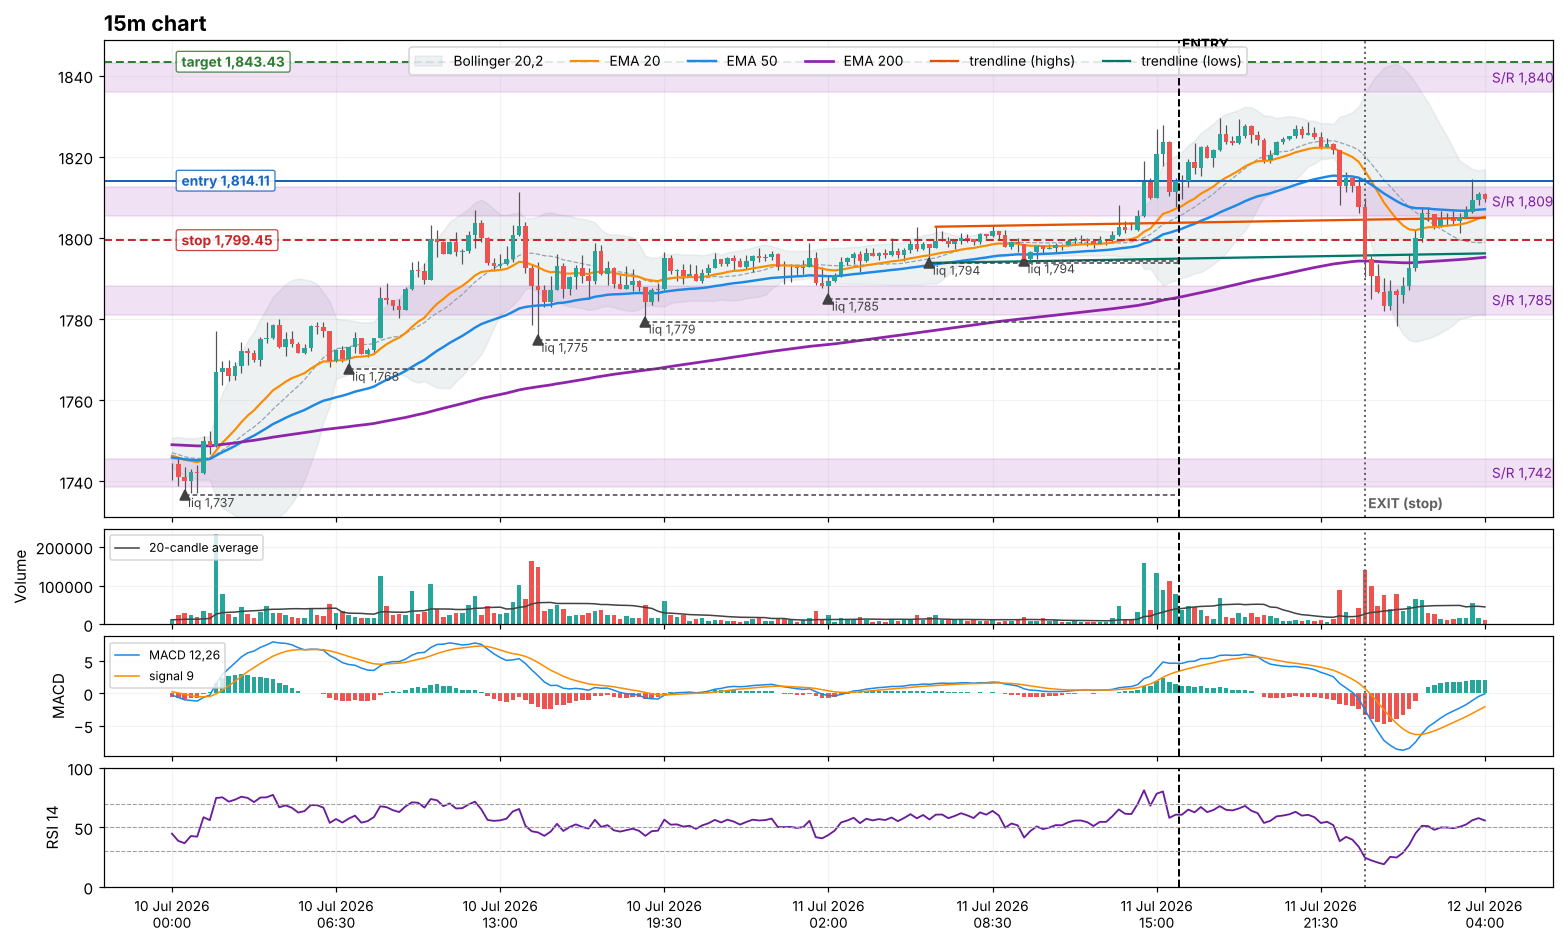
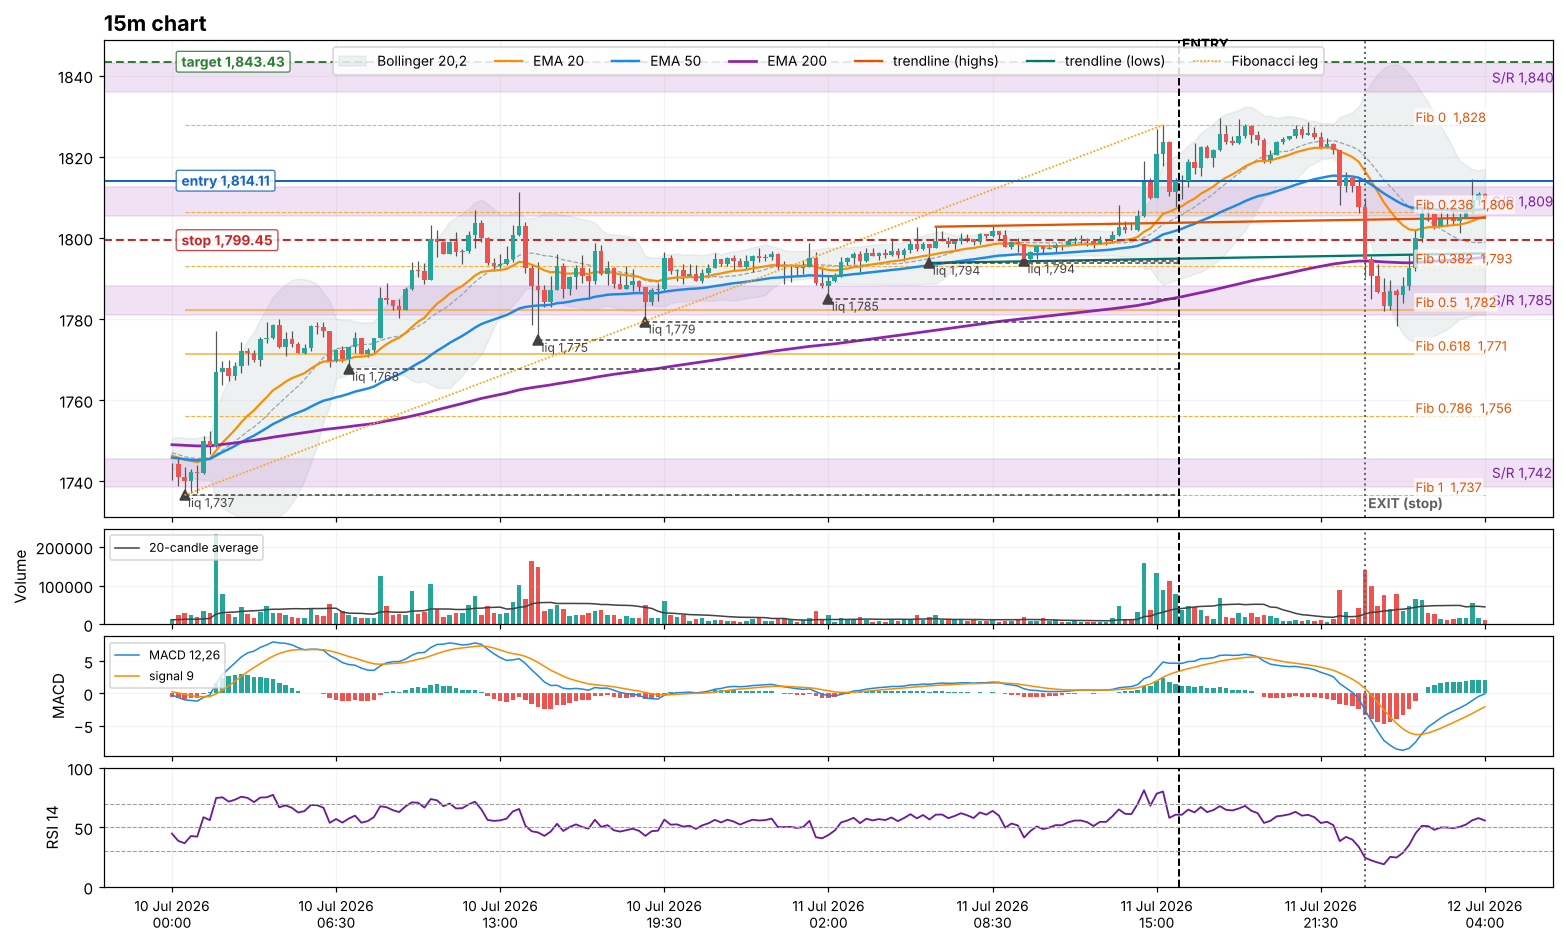
Journal h039: Fibonacci retracements/extensions on all charts, liquidity map and price-path review
Claude-Session: https://claude.ai/code/session_01Vt3ECMLxUk6mTvrtTCyxQY

diff --git a/reports/review/index.html b/reports/review/index.html
@@ -128,6 +128,7 @@ details.tr > summary:focus-visible { outline: 2px solid var(--accent); outline-o
   <p class="key">On every chart: black dashed line = entry, dotted grey = stop-out. Blue = entry price, red dashed = stop, green dashed = target.
     Purple bands = support / resistance zones known at entry (price on the right). Dashed grey lines with triangles = untaken liquidity
     (swing highs / lows not yet traded through, with their price). Orange / teal = trendlines through the last two swing highs / lows.
+    Yellow lines = Fibonacci retracements of the last leg (0.5 and 0.618 solid), orange dash-dot = Fibonacci extensions 1.272 / 1.618.
     Averages: EMA 20 orange, EMA 50 blue, EMA 200 purple; grey band = Bollinger 20,2. Below: volume with its 20-candle average, MACD, RSI 14.</p>
 
   <section class="card">
@@ -139,20 +140,55 @@ details.tr > summary:focus-visible { outline: 2px solid var(--accent); outline-o
     </ul>
   </section>
 
-  <section class="card mine">
-    <h2>What I think went wrong</h2>
+  <section class="card">
+    <span class="step">Liquidity at entry (untaken swing highs and lows, known before 16:00 UTC on 11 July)</span>
+    <div class="grid2">
+      <dl class="kv">
+        <dt>Above (buy-side, fuel for our long)</dt><dd></dd>
+        <dt>1h / 4h high</dt><dd>1,833</dd>
+        <dt>Daily high</dt><dd>1,849</dd>
+        <dt>Daily highs</dt><dd>2,423 · 2,464</dd>
+      </dl>
+      <dl class="kv">
+        <dt>Below (sell-side, where stops sit)</dt><dd></dd>
+        <dt>15m equal lows</dt><dd>1,794 · 1,794</dd>
+        <dt>15m / 1h lows</dt><dd>1,785 · 1,779 · 1,775 · 1,768</dd>
+        <dt>1h lows</dt><dd>1,737 · 1,731 · 1,721 · 1,712</dd>
+        <dt>4h / daily lows</dt><dd>1,549 · 1,547 · 1,511 · 1,504</dd>
+      </dl>
+    </div>
+    <p>Fibonacci at entry (last leg up, swings known before entry): <b>15m</b> 1,737 → 1,828: 0.382 = 1,793, 0.5 = 1,782, 0.618 = 1,771.
+      <b>1h</b> 1,712 → 1,828: 0.382 = 1,784, 0.5 = 1,770, 0.618 = 1,757, 0.786 = 1,737; extensions 1.272 = 1,859, 1.618 = 1,899.</p>
+  </section>
+
+  <section class="card">
+    <span class="step">What price did next, liquidity side by side</span>
     <ol>
-      <li><b>The stop sat right on top of a liquidity pool.</b> On the 15m chart there were untaken lows at 1,794, 1,794 and 1,785,
-        with the 1,785 support just under them. At 23:20 price dropped straight into that pool (low 1,778), took our stop on the way, and turned.
-        The bot's "clean risk zone" check only looks between the entry and the stop, so it missed liquidity 5 to 15 points below the stop.</li>
-      <li><b>We chased the move.</b> At entry the 1h RSI was about 70, 1h volume was 5 times its average and price was at the upper
-        Bollinger band on 15m and 1h. We bought after the push, not on a retest of 1,809.</li>
-      <li><b>The daily chart was still in repair.</b> Price sat on the daily EMA 50 (about 1,800), far below the EMA 200 (about 2,236), inside
-        the 1,785–1,809 zone, with 1,840 resistance overhead.</li>
-      <li><b>The idea was right.</b> About 24 hours after stopping us out, on 13 July at 00:10 UTC, price reached our target. It later went to 1,900.</li>
+      <li><b>11 Jul 23:20 – 12 Jul 00:30:</b> down to 1,778. It took the equal lows 1,794 / 1,794 and the lows at 1,785 and 1,779 (our stop at 1,799 went with them)
+        and turned at the 15m Fib 0.5 (1,782), 1h Fib 0.382 (1,784) and the 1,785 support.</li>
+      <li><b>13 Jul 00:10:</b> up to 1,848. It took the 1,833 high (and passed our target 1,843), stopping one dollar under the daily high at 1,849.</li>
+      <li><b>13 Jul 18:15:</b> down to 1,748. It took the deeper lows 1,775 and 1,768 and went just below the 1h Fib 0.618 (1,757), above the 0.786 (1,737).</li>
+      <li><b>14 Jul 12:45 – 22:30:</b> it took the daily high 1,849 and ran to 1,897, almost exactly the 1h Fibonacci 1.618 extension (1,899). It reached 1,959 on 22 July.</li>
     </ol>
-    <p>My suggestion for trades like this: put the stop below the pool and the 1,785 support (around 1,775), or wait for a retest of 1,809
-      and enter there. Both keep the same idea with a stop the market is less likely to hunt.</p>
+  </section>
+
+  <section class="card mine">
+    <h2>What I think of this trade, with Fibonacci and liquidity</h2>
+    <ol>
+      <li><b>The direction was right; the stop was in the most obvious place.</b> Our stop (1,799) sat just above equal lows at 1,794 / 1,794:
+        the clearest sell-side liquidity on the chart, and only a 1h Fib 0.236 pullback away. A normal 0.382–0.5 pullback had to take it.</li>
+      <li><b>Price moves from one pool of liquidity to the next.</b> First the lows under our stop, then the 1,833 high, then the deeper lows
+        at 1,775 / 1,768, then the daily high 1,849 and the 1.618 extension. The bot only read "breakout, go", not where the liquidity sat on both sides.</li>
+      <li><b>We chased.</b> Entry came after the push: 1h RSI about 70, volume 5 times average, price at the upper Bollinger band. Bigger players
+        sell into that and buy back lower, at liquidity.</li>
+      <li><b>A Fibonacci pullback alone would also have lost.</b> A limit buy at the 0.382 / support confluence (1,784, filled 12 Jul 00:05)
+        with a stop under the 1h Fib 0.618 (1,755) was stopped on 13 Jul at 17:55 (low 1,748), a day before the run to 1,897.
+        The level that held was below the next liquidity: the 1,737 low, which is also the 1h Fib 0.786. A stop under 1,737, entry 1,784 and target at the
+        1.618 extension (1,899) would have worked (+2.1R), but I'm reading that off the chart afterwards. It has to be tested on all trades before we trust it.</li>
+    </ol>
+    <p><b>Rule idea to test:</b> for a breakout long, enter on a pullback into Fibonacci 0.382–0.5 that lines up with support or liquidity;
+      put the stop below the next untaken liquidity pool beyond the 0.618 (not just above the nearest one); take profit at the next buy-side
+      liquidity or the 1.272 / 1.618 extension.</p>
   </section>
 
   <section class="card">

diff --git a/bot/study/review.py b/bot/study/review.py
@@ -232,6 +232,43 @@ def plot_big(df5u: pd.DataFrame, tf: str, rule: str, t: dict, zones: np.ndarray,
                 ax.text(i, p, f" liq {p:,.0f}", fontsize=8, color="#424242",
                         va="bottom" if side > 0 else "top")
                 liq.append((side, p))
+    # Fibonacci: the last leg in the trade direction inside the window, using only candles closed before entry.
+    # Long: lowest low of the window -> highest high after it; retracements measured down from that high,
+    # extensions up from the low (short: mirrored).
+    dirn = int(t.get("direction", 1))
+    pre_h, pre_l = b.h[lo:i_e], b.l[lo:i_e]
+    fib = {}
+    if len(pre_h) > 5:
+        if dirn > 0:
+            k0 = int(np.argmin(pre_l)); k1 = k0 + int(np.argmax(pre_h[k0:]))
+            f_lo, f_hi = pre_l[k0], pre_h[k1]
+            start, end_ = lo + k0, lo + k1
+            lv_of = lambda r: f_hi - r * (f_hi - f_lo)  # noqa: E731
+            ext_of = lambda r: f_lo + r * (f_hi - f_lo)  # noqa: E731
+        else:
+            k0 = int(np.argmax(pre_h)); k1 = k0 + int(np.argmin(pre_l[k0:]))
+            f_hi, f_lo = pre_h[k0], pre_l[k1]
+            start, end_ = lo + k0, lo + k1
+            lv_of = lambda r: f_lo + r * (f_hi - f_lo)  # noqa: E731
+            ext_of = lambda r: f_hi - r * (f_hi - f_lo)  # noqa: E731
+        ax.plot([start, end_], [f_lo, f_hi] if dirn > 0 else [f_hi, f_lo], color="#f9a825", linewidth=1.2,
+                linestyle=(0, (1, 1)), label="Fibonacci leg")
+        for r_ in (0.0, 0.236, 0.382, 0.5, 0.618, 0.786, 1.0):
+            v = lv_of(r_)
+            fib[f"ret_{r_:g}"] = float(v)
+            ax.hlines(v, start, hi - 1, color="#f9a825", linewidth=1.0 if r_ in (0.5, 0.618) else 0.7,
+                      linestyle="-" if r_ in (0.5, 0.618) else "--", alpha=0.9, zorder=1.5)
+            ax.text(hi - 12, v, f"Fib {r_:g}  {v:,.0f}", fontsize=8.5, color="#e65100", va="bottom",
+                    bbox=dict(boxstyle="round,pad=0.1", fc="white", ec="none", alpha=0.7))
+        for r_ in (1.272, 1.618):
+            v = ext_of(r_)
+            fib[f"ext_{r_:g}"] = float(v)
+            if ymin - pad <= v <= ymax + pad:
+                ax.hlines(v, end_, hi - 1, color="#f57f17", linewidth=0.9, linestyle="-.")
+                ax.text(hi - 12, v, f"Fib ext {r_:g}  {v:,.0f}", fontsize=8.5, color="#e65100", va="bottom",
+                        bbox=dict(boxstyle="round,pad=0.1", fc="white", ec="none", alpha=0.7))
+        fib["leg"] = (float(f_lo), float(f_hi), pd.Timestamp(d.ot[start]).strftime("%d %b %Y %H:%M"),
+                      pd.Timestamp(d.ot[end_]).strftime("%d %b %Y %H:%M"))
     for lv, col, name in ((e, "#1565c0", "entry"), (s, "#c62828", "stop"), (g, "#2e7d32", "target")):
         ax.axhline(lv, color=col, linewidth=1.3, linestyle="-" if name == "entry" else (0, (4, 2)))
         ax.text(lo + 1, lv, f" {name} {lv:,.2f} ", ha="left", va="center", fontsize=9, color=col, fontweight="bold",
@@ -245,7 +282,7 @@ def plot_big(df5u: pd.DataFrame, tf: str, rule: str, t: dict, zones: np.ndarray,
     if i_x < hi:
         ax.text(i_x, ymin - pad * 0.6, " EXIT (stop)", fontsize=9, color="#616161", fontweight="bold")
     ax.set_ylim(ymin - pad, ymax + pad)
-    ax.legend(loc="upper center", fontsize=9, ncol=6, framealpha=0.85)
+    ax.legend(loc="upper center", fontsize=9, ncol=7, framealpha=0.85)
     off = "" if i_x < hi else "   (exit is later, beyond the right edge)"
     ax.set_title(f"{tf} chart{off}", fontsize=14, loc="left", fontweight="bold")
     axv.bar(x, b.v[lo:hi], color=np.where(up, "#26a69a", "#ef5350"), width=0.72)
@@ -275,4 +312,4 @@ def plot_big(df5u: pd.DataFrame, tf: str, rule: str, t: dict, zones: np.ndarray,
             "bb_up": float(bu[j]), "bb_lo": float(bl[j]), "rsi": float(b.r[j]), "macd_hist": float((d.ml - d.ms)[j]),
             "vol_vs_avg": float(b.v[j] / vavg[j]) if vavg[j] > 0 else None,
             "liq_below": sorted([p for sd, p in liq if sd < 0 and p < e], reverse=True)[:3],
-            "liq_above": sorted([p for sd, p in liq if sd > 0 and p > e])[:3]}
+            "liq_above": sorted([p for sd, p in liq if sd > 0 and p > e])[:3], "fib": fib}
